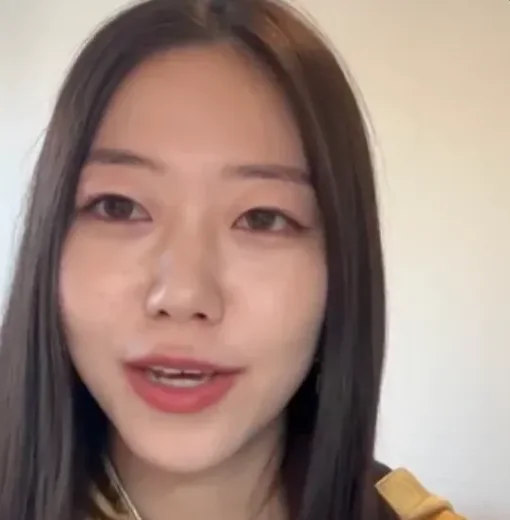
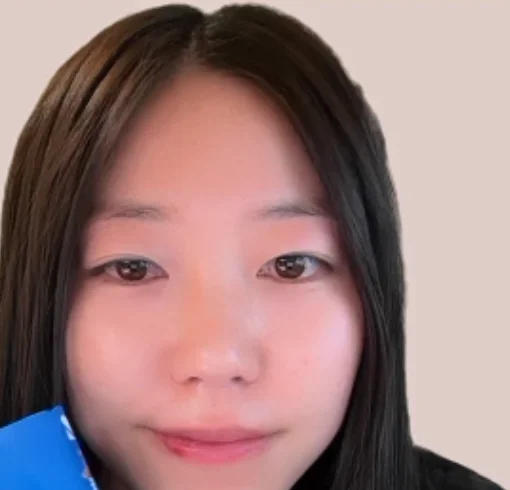
LP：LIVEのZoom風画面に、ひなさんのZoomの写真を小さめに入れる（本の表紙の文字は写さない）
Claude-Session: https://claude.ai/code/session_01F3FHjk555ugKUDSCF5jLMd

diff --git a/salon/index.html b/salon/index.html
@@ -660,15 +660,15 @@
     .ex-grad h3 { font-size: 22px; }
   }
   /* LIVEのZoom風の画面（Hinaは本物の講義動画の1場面、参加者は頭文字のアイコン） */
-  .zoom { margin: 16px auto 0; max-width: 420px; background: #0E1628; border-radius: 18px; padding: 8px; box-shadow: 0 0 0 2px rgba(255,181,153,0.45), 0 14px 30px rgba(0,0,0,0.35); }
+  .zoom { margin: 16px auto 0; max-width: 300px; background: #0E1628; border-radius: 18px; padding: 8px; box-shadow: 0 0 0 2px rgba(255,181,153,0.45), 0 14px 30px rgba(0,0,0,0.35); }
   .z-top { display: flex; align-items: center; justify-content: space-between; padding: 2px 4px 8px; }
   .z-live { background: #E53935; color: #FFF; font-size: 11px; font-weight: 900; letter-spacing: .08em; border-radius: 999px; padding: 1px 10px; }
   .z-title { font-size: 11px; font-weight: 800; color: #C9D1E0; }
   .z-body { display: grid; grid-template-columns: 1fr 34%; gap: 6px; }
   .z-main { position: relative; border-radius: 12px; overflow: hidden; box-shadow: 0 0 0 3px #3FB37F; aspect-ratio: 1 / 1; }
-  .z-main img { width: 100%; height: 100%; object-fit: cover; object-position: center 20%; display: block; }
-  .z-name { position: absolute; left: 6px; bottom: 6px; background: rgba(0,0,0,.6); color: #FFF; font-size: 10.5px; font-weight: 800; border-radius: 6px; padding: 1px 6px; }
-  .z-bubble { position: absolute; right: 8px; top: 8px; background: #FFF; color: var(--ink); font-family: "DM Sans", sans-serif; font-size: 12px; font-weight: 800; border-radius: 12px 12px 2px 12px; padding: 4px 9px; box-shadow: 0 4px 10px rgba(0,0,0,.2); }
+  .z-main img { width: 100%; height: 100%; object-fit: cover; object-position: center top; display: block; }
+  .z-name { position: absolute; left: 6px; bottom: 6px; font-size: 9.5px !important; background: rgba(0,0,0,.6); color: #FFF; font-size: 10.5px; font-weight: 800; border-radius: 6px; padding: 1px 6px; }
+  .z-bubble { position: absolute; right: 6px; top: 6px; font-size: 10.5px !important; background: #FFF; color: var(--ink); font-family: "DM Sans", sans-serif; font-size: 12px; font-weight: 800; border-radius: 12px 12px 2px 12px; padding: 4px 9px; box-shadow: 0 4px 10px rgba(0,0,0,.2); }
   .z-side { display: grid; grid-template-rows: repeat(4, 1fr); gap: 6px; }
   .z-av { position: relative; display: grid; place-items: center; background: #1F2A44; border-radius: 10px; color: #FFF; font-weight: 900; font-size: 15px; }
   .z-av::before { content: ""; position: absolute; width: 30px; height: 30px; border-radius: 50%; background: var(--c); left: 50%; top: 50%; transform: translate(-50%, -50%); }
@@ -680,7 +680,7 @@
   .z-bar i.end { background: #E53935; width: 26px; border-radius: 9px; }
   @media (min-width: 900px) {
     .ex-live .zoom { grid-column: 2; grid-row: 1 / 3; width: 100%; max-width: none; margin: 0; }
-    .ex-live { grid-template-columns: 1fr 380px; }
+    .ex-live { grid-template-columns: 1fr 320px; }
   }
 </style>
 </head>
@@ -788,7 +788,7 @@
           <li><span class="n">1</span><div class="body"><div><h3>文法を理解する</h3><p>動画で、動詞の形の基本ルールを学ぶ。</p><span class="tool">講義動画</span></div><div class="thumb wide"><img src="img/lecture-sample.webp" width="1100" height="605" alt="講義動画の1場面" loading="lazy"></div></div></li>
           <li class="out"><span class="n">2</span><div class="body"><div><h3>英文を作ってみる</h3><p>日本語を見て、<br>自分で英語にする。<br>瞬発力を鍛えます。</p><span class="en">I went to a cafe with my friend.</span><span class="tool">瞬間英作文</span></div><div class="thumb"><img src="img/mock-instant-top.webp" width="720" height="662" alt="瞬間英作文の画面（イメージ）" loading="lazy"></div></div></li>
           <li class="out"><span class="n">3</span><div class="body"><div><h3>日記で使ってみる</h3><p>書いた英語を添削してもらう。</p><span class="en"><s>I go</s> → <ins>I went</ins></span><span class="tool">英語日記</span></div><div class="thumb"><video src="img/journal-top.mp4" poster="img/journal-still-top.webp" width="780" height="716" muted loop playsinline autoplay preload="none" aria-label="英語日記をAIが添削する動画（見本）"></video></div></div></li>
-          <li class="out"><span class="n">4</span><div class="body"><div><h3>LIVEで話してみる</h3><p>学んだ表現を、<br>実際に声に出す。</p><span class="tool">LIVE授業 月12回以上</span></div><div class="thumb"><img src="img/hina-live.webp" width="510" height="520" alt="LIVE授業で話すHina" loading="lazy" style="object-position:center 20%"></div></div></li>
+          <li class="out"><span class="n">4</span><div class="body"><div><h3>LIVEで話してみる</h3><p>学んだ表現を、<br>実際に声に出す。</p><span class="tool">LIVE授業 月12回以上</span></div><div class="thumb"><img src="img/hina-live.webp" width="510" height="490" alt="LIVE授業のHina" loading="lazy"></div></div></li>
           <li><span class="n">5</span><div class="body"><div><h3>復習して身につける</h3><p>苦手な表現を繰り返し練習する。</p><span class="tool">自動の復習</span></div><div class="thumb"><img src="img/mock-menu-top.webp" width="780" height="1054" alt="復習が出ている学習メニューの画面（イメージ）" loading="lazy"></div></div></li>
         </ol>
         <p class="aha"><span class="ib">あなたに必要な文法を、</span><span class="ib"><b>学んで、作って、使って、復習する</b>。</span><br><span class="ib">決して、知識だけで終わらせない。</span></p>
@@ -833,7 +833,7 @@
             <div class="z-top"><span class="z-live">● LIVE</span><span class="z-title">日常英会話LIVE</span></div>
             <div class="z-body">
               <div class="z-main">
-                <img src="img/hina-live.webp" width="510" height="520" alt="" loading="lazy">
+                <img src="img/hina-live.webp" width="510" height="490" alt="" loading="lazy">
                 <span class="z-name">Hina（講師）</span>
                 <span class="z-bubble">How was your weekend?</span>
               </div>
